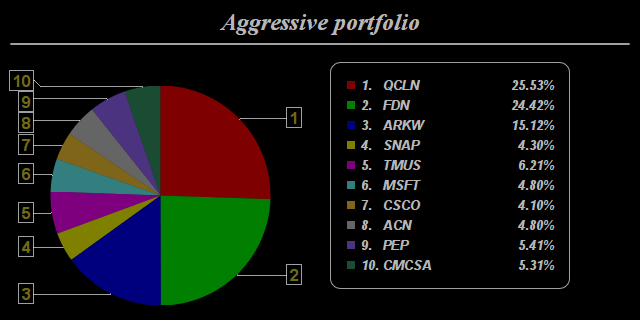
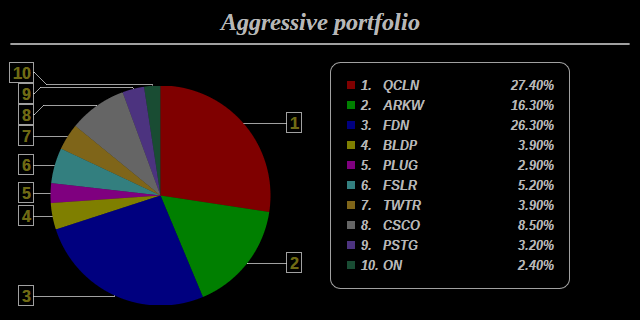
autoupdate 2020-12-22-15:34:17

diff --git a/quotes/portfolios/portfolios_calc.py b/quotes/portfolios/portfolios_calc.py
@@ -10,16 +10,17 @@ from quotes.portfolios.rp_portfolio import *
 
 
 def parking_portfolio():
-    cor_closes = get_closes_universe_df(cap_filter=200000000000, etf_list=PARKING)
+    # cor_closes = get_closes_universe_df(cap_filter=200000000000, etf_list=PARKING)
+    cor_closes = get_closes_universe_df(etf_list=PARKING)
     cor_select = Selector(closes=cor_closes, assets_to_hold=4)
-    cor_tickers = cor_select.rs_sharpe()
+    cor_tickers = cor_select.rs_sharpe(etf=True)
     cor_list = get_closes_by_ticker_list(cor_tickers)
     cor_rp = RiskParityAllocator(closes=cor_list, cov_method='semi', herc=False, linkage_='ward',
                                  risk_measure_='variance', graphs_show=False)
     cor_rp.calc_returns()
     core = cor_rp.allocator()
 
-    sat_closes = get_closes_universe_df(cap_filter=200000000000, etf_list=None)
+    sat_closes = get_closes_universe_df(cap_filter=100000000000, etf_list=None)
     sat_select = Selector(closes=sat_closes, assets_to_hold=4)
     sat_tickers = sat_select.rs_sharpe()
     sat_list = get_closes_by_ticker_list(sat_tickers)
@@ -33,9 +34,10 @@ def parking_portfolio():
 
 
 def allweather_portfolio():
-    cor_closes = get_closes_universe_df(cap_filter=200000000000, etf_list=ALL_WEATHER)
+    # cor_closes = get_closes_universe_df(cap_filter=200000000000, etf_list=ALL_WEATHER)
+    cor_closes = get_closes_universe_df(etf_list=ALL_WEATHER)
     cor_select = Selector(closes=cor_closes, assets_to_hold=4)
-    cor_tickers = cor_select.rs_sharpe()
+    cor_tickers = cor_select.rs_sharpe(etf=True)
     cor_list = get_closes_by_ticker_list(cor_tickers)
     cor_rp = RiskParityAllocator(closes=cor_list, cov_method='semi', herc=False, linkage_='ward',
                                  risk_measure_='variance', graphs_show=False)
@@ -56,9 +58,10 @@ def allweather_portfolio():
 
 
 def balanced_portfolio():
-    cor_closes = get_closes_universe_df(cap_filter=200000000000, etf_list=BALANCED)
+    # cor_closes = get_closes_universe_df(cap_filter=200000000000, etf_list=BALANCED)
+    cor_closes = get_closes_universe_df(etf_list=BALANCED)
     cor_select = Selector(closes=cor_closes, assets_to_hold=3)
-    cor_tickers = cor_select.rs_sharpe()
+    cor_tickers = cor_select.rs_sharpe(etf=True)
     cor_list = get_closes_by_ticker_list(cor_tickers)
     cor_rp = RiskParityAllocator(closes=cor_list, cov_method='semi', herc=False, linkage_='ward',
                                  risk_measure_='variance', graphs_show=False)
@@ -79,16 +82,17 @@ def balanced_portfolio():
 
 
 def aggressive_portfolio():
-    cor_closes = get_closes_universe_df(cap_filter=200000000000, etf_list=AGGRESSIVE)
+    # cor_closes = get_closes_universe_df(cap_filter=200000000000, etf_list=AGGRESSIVE)
+    cor_closes = get_closes_universe_df(etf_list=AGGRESSIVE)
     cor_select = Selector(closes=cor_closes, assets_to_hold=3)
-    cor_tickers = cor_select.rs_sharpe()
+    cor_tickers = cor_select.rs_sharpe(etf=True)
     cor_list = get_closes_by_ticker_list(cor_tickers)
     cor_rp = RiskParityAllocator(closes=cor_list, cov_method='semi', herc=False, linkage_='ward',
                                  risk_measure_='variance', graphs_show=False)
     cor_rp.calc_returns()
     core = cor_rp.allocator()
 
-    sat_closes = get_closes_universe_df(cap_filter=50000000000, etf_list=None)
+    sat_closes = get_closes_universe_df(cap_filter=5000000000, etf_list=None)
     sat_select = Selector(closes=sat_closes, assets_to_hold=7)
     sat_tickers = sat_select.rs_sharpe()
     sat_list = get_closes_by_ticker_list(sat_tickers)
@@ -97,21 +101,22 @@ def aggressive_portfolio():
     sat_rp.calc_returns()
     satellite = sat_rp.allocator()
 
-    weights = core_sat(cor=core, cor_perc=0.65, sat=satellite, sat_perc=0.35)
+    weights = core_sat(cor=core, cor_perc=0.7, sat=satellite, sat_perc=0.3)
     return weights
 
 
 def leveraged_portfolio():
-    cor_closes = get_closes_universe_df(cap_filter=200000000000, etf_list=LEVERAGED)
+    # cor_closes = get_closes_universe_df(cap_filter=200000000000, etf_list=LEVERAGED)
+    cor_closes = get_closes_universe_df(etf_list=LEVERAGED)
     cor_select = Selector(closes=cor_closes, assets_to_hold=3)
-    cor_tickers = cor_select.rs_sharpe()
+    cor_tickers = cor_select.rs_sharpe(etf=True)
     cor_list = get_closes_by_ticker_list(cor_tickers)
     cor_rp = RiskParityAllocator(closes=cor_list, cov_method='semi', herc=False, linkage_='ward',
                                  risk_measure_='variance', graphs_show=False)
     cor_rp.calc_returns()
     core = cor_rp.allocator()
 
-    sat_closes = get_closes_universe_df(cap_filter=150000000000, etf_list=None)
+    sat_closes = get_closes_universe_df(cap_filter=20000000000, etf_list=None)
     sat_select = Selector(closes=sat_closes, assets_to_hold=9)
     sat_tickers = sat_select.rs_sharpe()
     sat_list = get_closes_by_ticker_list(sat_tickers)

diff --git a/invest_services.py b/invest_services.py
@@ -21,8 +21,8 @@ def main():
     # update_universe_prices()
 
     # Это уже формирование вселенной по-новому, через апи
-    eod_get_and_save_holdings()
-    eod_update_universe_prices()
+    # eod_get_and_save_holdings()
+    # eod_update_universe_prices()
 
     parking_weights = parking_portfolio()
     allweather_weights = allweather_portfolio()
